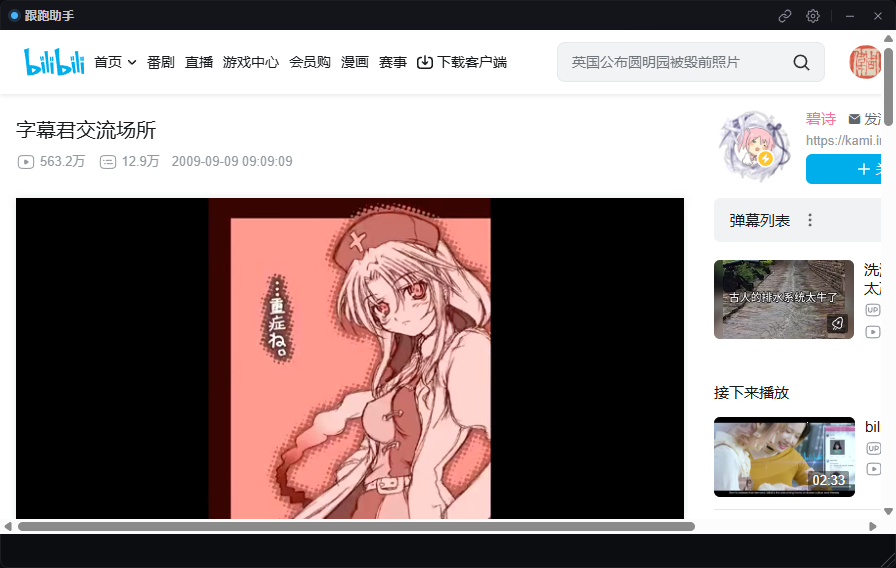
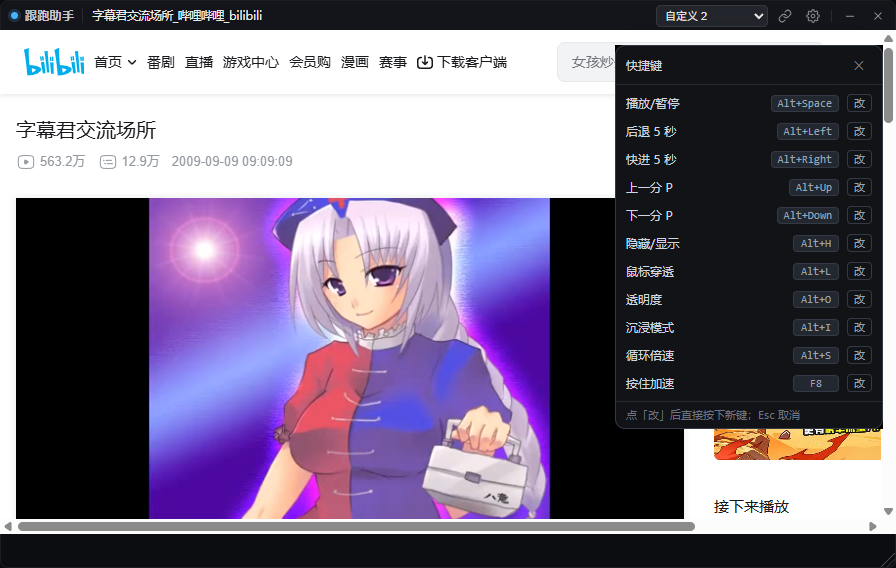
fix(ui): 快捷键面板被舞台盖住 / 列表空白；M4 两项打通
用户报"点齿轮，窗口被舞台遮住"——根因是 chrome 窗口用 SetWindowRgn 挖空，
只有上报过的矩形可见；面板不在 overlay[] 里就被裁掉了。
- 面板打开/关闭时把它的矩形加进 overlay[]，并在渲染完行之后重报（高度会变）

顺带修掉三个让面板"看得见但用不了"的问题：
- renderHotkeys/stopRecording/accelOf 写在初始化函数内部，applyState（模块作用域）
  看不到 → 一调用就 ReferenceError，列表永远空白；提到模块作用域
- 同一个 ReferenceError 还会打断 applyState：面板开着时状态更新 → 标题/分P/布局
  全不渲染（--ui-test 的 layouts=0 就是它）
- 页面里发消息的函数叫 post，新代码写成了 send → 输入态上报被 try/catch 吞掉

其它：
- 热键表非实战模式退回 settings 里的映射（没装钩子也能看能改）
- 列表按 Action::ALL 固定顺序输出，补全中文标签（togglePass/toggleImmersion/cycleSpeed）
- --bind-test 同时验证 typing 上报与换绑落盘：RESULT 2/2

门禁 19/19，测试 130 通过

diff --git a/gifa-rs/apps/gifa-demo/web/app.js b/gifa-rs/apps/gifa-demo/web/app.js
@@ -60,6 +60,10 @@ function rectPx(el) {
 function reportLayout() {
   const urlbar = $('urlbar');
   const overlay = [rectPx($('grip'))];
+  /* 快捷键面板是**浮在舞台上方**的：chrome 窗口的区域只包含上报过的矩形，
+   * 不把它加进来，那一片会被裁掉 —— 表现就是"点开设置，面板被视频盖住"。 */
+  const hk = $('hkPanel');
+  if (hk && !hk.classList.contains('hidden')) overlay.push(rectPx(hk));
   if (state.calibOpen) overlay.push(rectPx($('calib')));
   const toast = $('toast');
   if (toast.classList.contains('show')) overlay.push(rectPx(toast));
@@ -99,6 +103,96 @@ const fmt = (s) => {
  * 后面 renderParts/renderLayouts 全被跳过（界面看起来像"控件没渲染"）。 */
 let recording = null;
 let lastHotkeys = [];
+
+/* ---------------- 快捷键面板 ----------------
+ * 点「改」进入录制态：页面发 {t:'capture',on:true}，Rust 那边把所有热键都挡住，
+ * 按键只用来捕获；捕获到就把 {t:'bind'} 发回去，Rust 用 set_binding 换绑（冲突自动交换）。 */
+const HK_LABELS = {
+  togglePlay: '播放/暂停',
+  seekFwd: '快进 5 秒',
+  seekBack: '后退 5 秒',
+  nextPart: '下一分 P',
+  prevPart: '上一分 P',
+  holdSpeed: '按住加速',
+  cycleSpeed: '循环倍速',
+  toggleImmersion: '沉浸模式',
+  togglePass: '鼠标穿透',
+  toggleOpacity: '透明度',
+  toggleVisible: '隐藏/显示',
+};
+
+function renderHotkeys(list) {
+  const box = $('hkList');
+  if (!box) return;
+  box.innerHTML = '';
+  (list || []).forEach(({ action, accel }) => {
+    const row = document.createElement('div');
+    row.className = 'hk-row' + (recording === action ? ' rec' : '');
+    row.dataset.action = action;
+    const name = document.createElement('span');
+    name.className = 'hk-name';
+    name.textContent = HK_LABELS[action] || action;
+    const key = document.createElement('span');
+    key.className = 'hk-key';
+    key.textContent = recording === action ? '按下…' : accel || '—';
+    const btn = document.createElement('button');
+    btn.textContent = recording === action ? '取消' : '改';
+    btn.addEventListener('click', () => {
+      if (recording === action) { stopRecording(); return; }
+      recording = action;
+      post({ t: 'capture', on: true });
+      renderHotkeys(lastHotkeys);
+    });
+    row.append(name, key, btn);
+    box.appendChild(row);
+  });
+  // 面板高度随行数变化：区域要跟着重算，否则底部会被裁掉（看起来像"只显示了标题"）
+  reportLayout();
+}
+function stopRecording() {
+  recording = null;
+  post({ t: 'capture', on: false });
+  renderHotkeys(lastHotkeys);
+}
+
+// 把 KeyboardEvent 转成加速器字符串（Alt+J / F7 / Ctrl+Shift+K）
+function accelOf(e) {
+  const k = e.key;
+  if (['Control', 'Alt', 'Shift', 'Meta'].includes(k)) return null; // 只按了修饰键
+  let key = k.length === 1 ? k.toUpperCase() : k.replace('Arrow', '');
+  if (key === ' ') key = 'Space';
+  if (key === 'Escape') key = 'Esc';
+  const mods = [];
+  if (e.ctrlKey) mods.push('Ctrl');
+  if (e.altKey) mods.push('Alt');
+  if (e.shiftKey) mods.push('Shift');
+  if (e.metaKey) mods.push('Super');
+  return [...mods, key].join('+');
+}
+
+window.addEventListener('keydown', (e) => {
+  if (!recording) return;
+  e.preventDefault();
+  e.stopPropagation();
+  if (e.key === 'Escape') { stopRecording(); return; }
+  const accel = accelOf(e);
+  if (!accel) return;
+  post({ t: 'bind', action: recording, accel });
+  recording = null;
+  post({ t: 'capture', on: false });
+}, true);
+
+$('btnSettings').addEventListener('click', () => {
+  const p = $('hkPanel');
+  p.classList.toggle('hidden');
+  if (!p.classList.contains('hidden')) renderHotkeys(lastHotkeys);
+  reportLayout(); // 区域要跟着变，否则面板落在挖空区外，看不见也点不到
+});
+$('hkClose').addEventListener('click', () => {
+  stopRecording();
+  $('hkPanel').classList.add('hidden');
+  reportLayout();
+});
 
 function applyState(s) {
   if (!s || typeof s !== 'object') return;
@@ -353,92 +447,9 @@ function wireUi() {
     e.stopPropagation();
   });
 
-  /* ---------------- 快捷键面板 ----------------
-   * 点「改」进入录制态：页面发 {t:'capture',on:true}，Rust 那边把所有热键都挡住，
-   * 按键只用来捕获；捕获到就把 {t:'bind'} 发回去，Rust 用 set_binding 换绑（冲突自动交换）。 */
-  const HK_LABELS = {
-    togglePlay: '播放/暂停',
-    seekFwd: '快进 5 秒',
-    seekBack: '后退 5 秒',
-    nextPart: '下一分 P',
-    prevPart: '上一分 P',
-    holdSpeed: '按住加速',
-    cycleRate: '循环倍速',
-    toggleImmersive: '沉浸模式',
-    toggleClickThrough: '鼠标穿透',
-    toggleOpacity: '透明度',
-    toggleVisible: '隐藏/显示',
-  };
-
-  function renderHotkeys(list) {
-    const box = $('hkList');
-    if (!box) return;
-    box.innerHTML = '';
-    (list || []).forEach(({ action, accel }) => {
-      const row = document.createElement('div');
-      row.className = 'hk-row' + (recording === action ? ' rec' : '');
-      row.dataset.action = action;
-      const name = document.createElement('span');
-      name.className = 'hk-name';
-      name.textContent = HK_LABELS[action] || action;
-      const key = document.createElement('span');
-      key.className = 'hk-key';
-      key.textContent = recording === action ? '按下…' : accel || '—';
-      const btn = document.createElement('button');
-      btn.textContent = recording === action ? '取消' : '改';
-      btn.addEventListener('click', () => {
-        if (recording === action) { stopRecording(); return; }
-        recording = action;
-        send({ t: 'capture', on: true });
-        renderHotkeys(lastHotkeys);
-      });
-      row.append(name, key, btn);
-      box.appendChild(row);
-    });
-  }
-  function stopRecording() {
-    recording = null;
-    send({ t: 'capture', on: false });
-    renderHotkeys(lastHotkeys);
-  }
-
-  // 把 KeyboardEvent 转成加速器字符串（Alt+J / F7 / Ctrl+Shift+K）
-  function accelOf(e) {
-    const k = e.key;
-    if (['Control', 'Alt', 'Shift', 'Meta'].includes(k)) return null; // 只按了修饰键
-    let key = k.length === 1 ? k.toUpperCase() : k.replace('Arrow', '');
-    if (key === ' ') key = 'Space';
-    if (key === 'Escape') key = 'Esc';
-    const mods = [];
-    if (e.ctrlKey) mods.push('Ctrl');
-    if (e.altKey) mods.push('Alt');
-    if (e.shiftKey) mods.push('Shift');
-    if (e.metaKey) mods.push('Super');
-    return [...mods, key].join('+');
-  }
-
-  window.addEventListener('keydown', (e) => {
-    if (!recording) return;
-    e.preventDefault();
-    e.stopPropagation();
-    if (e.key === 'Escape') { stopRecording(); return; }
-    const accel = accelOf(e);
-    if (!accel) return;
-    send({ t: 'bind', action: recording, accel });
-    recording = null;
-    send({ t: 'capture', on: false });
-  }, true);
-
-  $('btnSettings').addEventListener('click', () => {
-    const p = $('hkPanel');
-    p.classList.toggle('hidden');
-    if (!p.classList.contains('hidden')) renderHotkeys(lastHotkeys);
-  });
-  $('hkClose').addEventListener('click', () => { stopRecording(); $('hkPanel').classList.add('hidden'); });
-
   /* 输入态：在输入框里打字时，单键热键要让路（否则那个字符打不出来） */
-  $('urlInput').addEventListener('focus', () => send({ t: 'typing', on: true }));
-  $('urlInput').addEventListener('blur', () => send({ t: 'typing', on: false }));
+  $('urlInput').addEventListener('focus', () => post({ t: 'typing', on: true }));
+  $('urlInput').addEventListener('blur', () => post({ t: 'typing', on: false }));
   $('btnMin').addEventListener('click', () => post({ t: 'min' }));
   $('btnClose').addEventListener('click', () => post({ t: 'close' }));
 
@@ -505,6 +516,7 @@ function wireUi() {
 window.gifaState = applyState;
 // 自检/截图用：把最新热键表重绘一遍
 window.__gifaRenderHotkeys = () => renderHotkeys(lastHotkeys);
+window.__gifaHkCount = () => (lastHotkeys || []).length;
 
 document.addEventListener('DOMContentLoaded', () => {
   // URL 条默认收起：标记里没写 hidden，必须在这里收，否则舞台一开始就被顶下去

diff --git a/gifa-rs/apps/gifa-demo/src/main.rs b/gifa-rs/apps/gifa-demo/src/main.rs
@@ -125,6 +125,8 @@ struct UiState {
     typing: bool,
     /// 正在录制新键位（此时所有热键都不触发，按键只用来捕获）
     capturing: bool,
+    /// 自检用：输入态上报时见过的值（复位后仍能断言）
+    typing_seen: bool,
     /// 数据目录（startup.log 写在这下面）
     data_root: Option<std::path::PathBuf>,
     /// 启动时刻（用来跳过启动期间的 bounds 抖动）
@@ -994,6 +996,16 @@ fn on_tick() {
         /* --bind-test：走真实链路验证"录制换绑" —— 页面 ipc.postMessage → handle_chrome
          * → set_binding（冲突自动交换）→ 写回 settings。 */
         if std::env::args().any(|a| a == "--bind-test") {
+            // 输入态：页面 report 之后 Rust 要立刻看到（单键热键据此让路）
+            if ui.ticks == 14 {
+                gifa_shell::eval_chrome("post({t:'typing',on:true})");
+            }
+            if ui.ticks == 16 {
+                let on = ui.typing;
+                ui.typing_seen = on;
+                println!("[bind-test] typing 上报后 ui.typing={on} → {}", if on { "PASS" } else { "FAIL" });
+                gifa_shell::eval_chrome("post({t:'typing',on:false})");
+            }
             if ui.ticks == 12 {
                 gifa_shell::eval_chrome(
                     "window.ipc.postMessage(JSON.stringify({t:'bind',action:'togglePlay',accel:'Ctrl+Shift+P'}))",
@@ -1006,11 +1018,13 @@ fn on_tick() {
                     .and_then(|s| s.hotkeys.get("togglePlay").cloned())
                     .unwrap_or_default();
                 let ok = now == "Ctrl+Shift+P";
+                let typing_ok = ui.typing_seen;
                 println!(
                     "[bind-test] togglePlay 现在是 {now:?} → {}",
                     if ok { "PASS" } else { "FAIL" }
                 );
-                println!("RESULT {}/1", if ok { 1 } else { 0 });
+                let pass = usize::from(ok) + usize::from(typing_ok);
+                println!("RESULT {pass}/2");
                 std::thread::spawn(|| {
                     std::thread::sleep(Duration::from_millis(400));
                     gifa_shell::close();
@@ -1024,7 +1038,8 @@ fn on_tick() {
             gifa_shell::eval_chrome(
                 "(function(){var p=document.getElementById('hkPanel'); if(!p) return; \
                  p.classList.remove('hidden'); \
-                 if(window.__gifaRenderHotkeys) window.__gifaRenderHotkeys();})()",
+                 if(window.__gifaRenderHotkeys) window.__gifaRenderHotkeys(); \
+                 })()",
             );
         }
 
@@ -3570,6 +3585,7 @@ fn handle_chrome(ui: &mut UiState, raw: &str) {
             }
         }
         "debug" => {
+            // 页面 console/自检信息：GIFA_DEBUG=1 时打到 stdout
             if std::env::var_os("GIFA_DEBUG").is_some() {
                 println!("[ui-debug] {v}");
             }
@@ -3662,16 +3678,24 @@ fn ui_payload(ui: &UiState) -> String {
             .collect::<Vec<_>>(),
         "log": ui.logs.last().cloned().unwrap_or_default(),
         // 快捷键面板用：动作 → 显示名/当前键位
-        "hotkeys": ui
-            .hotkeys
-            .as_ref()
-            .map(|h| {
-                h.map()
-                    .iter()
-                    .map(|(k, v)| serde_json::json!({"action": k, "accel": v}))
-                    .collect::<Vec<_>>()
-            })
-            .unwrap_or_default(),
+        /* 快捷键表：实战模式下用**已安装的**映射（可能和设置不同——冲突交换后以实际生效的为准）；
+         * 非实战模式没有管理器，就退回设置里的映射，面板照样能看能改。 */
+        "hotkeys": ({
+            let map = ui
+                .hotkeys
+                .as_ref()
+                .map(|h| h.map().clone())
+                .or_else(|| ui.store.as_ref().map(|s| s.hotkeys.clone()))
+                .unwrap_or_default();
+            /* 按 Action::ALL 的固定顺序输出（不要按字母序，否则面板看起来是乱的） */
+            gifa_core::Action::ALL
+                .iter()
+                .filter_map(|a| {
+                    map.get(a.key())
+                        .map(|v| serde_json::json!({"action": a.key(), "accel": v}))
+                })
+                .collect::<Vec<_>>()
+        }),
         "typing": ui.typing,
         "capturing": ui.capturing,
     })

diff --git a/task.md b/task.md
@@ -527,8 +527,20 @@ gifa-rs/
       派发时**只挡单键**（组合键照常生效）—— 否则用户在输入框里打不出这个字符
 - [x] 录制新键位：`{t:'capture'}` 期间所有热键都不触发；齿轮按钮打开快捷键面板，
       点「改」按新键 → `{t:'bind'}` → `set_binding`（冲突自动交换 → 失败整体回滚）→ 写回设置
-      ↳ 实测（`--bind-test` 走真实链路）：`togglePlay → Ctrl+Shift+P`，设置里落盘，
-        `RESULT 1/1`；非实战模式下（没装钩子）也能改，留着下次启动生效
+      ↳ 实测（`--bind-test` 走真实链路）：`typing` 上报后 `ui.typing=true`、
+        `togglePlay → Ctrl+Shift+P` 落盘，`RESULT 2/2`；
+        非实战模式（没装钩子）也能改，留着下次启动生效
+      ↳ 面板截图：`apps/gifa-demo/docs/hotkeys-panel.png`（11 条，按 `Action::ALL` 顺序）
+
+**面板的坑（两个都是"看得见但用不了"的典型）**：
+
+1. **被舞台盖住**：chrome 窗口用 `SetWindowRgn` 挖空，只有上报过的矩形会显示。
+   面板不在 `overlay[]` 里 → 那一片被裁掉，看起来就是"点开设置，面板被视频盖住"。
+   修法：面板打开时把它加进 `overlay[]`，并在**渲染完行之后**再报一次（高度会变）。
+2. **列表空白**：`renderHotkeys` 写在了初始化函数内部、`applyState` 是模块作用域 ——
+   两者互相看不见，一调用就 ReferenceError。把函数提到模块作用域才通。
+   （这个 bug 还会**连带打断 `applyState`**：面板开着时状态一更新就抛错，
+   后面的标题/分P/布局渲染全被跳过，`--ui-test` 抓到 `layouts=0`。）
 - **锚点**：`hook-hotkeys.js` 全文、`main.js:1411-1472`
 - **验收**：`cargo run -p shell-demo -- --hotkey-test`（6 项，见 `docs/HOTKEYS.md`）
 - **实测**：`RegisterHotKey`(Alt+Space)、钩子键盘(F8 down/up)、rearm 后仍生效、冲突交换
